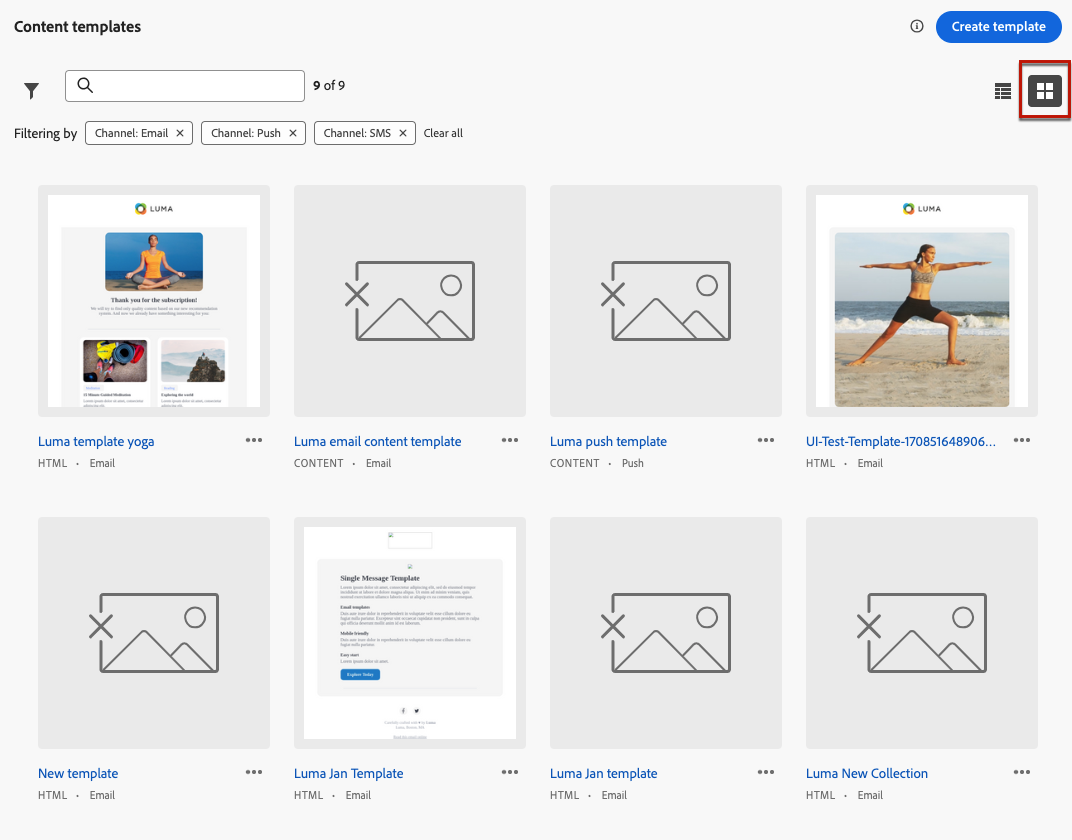
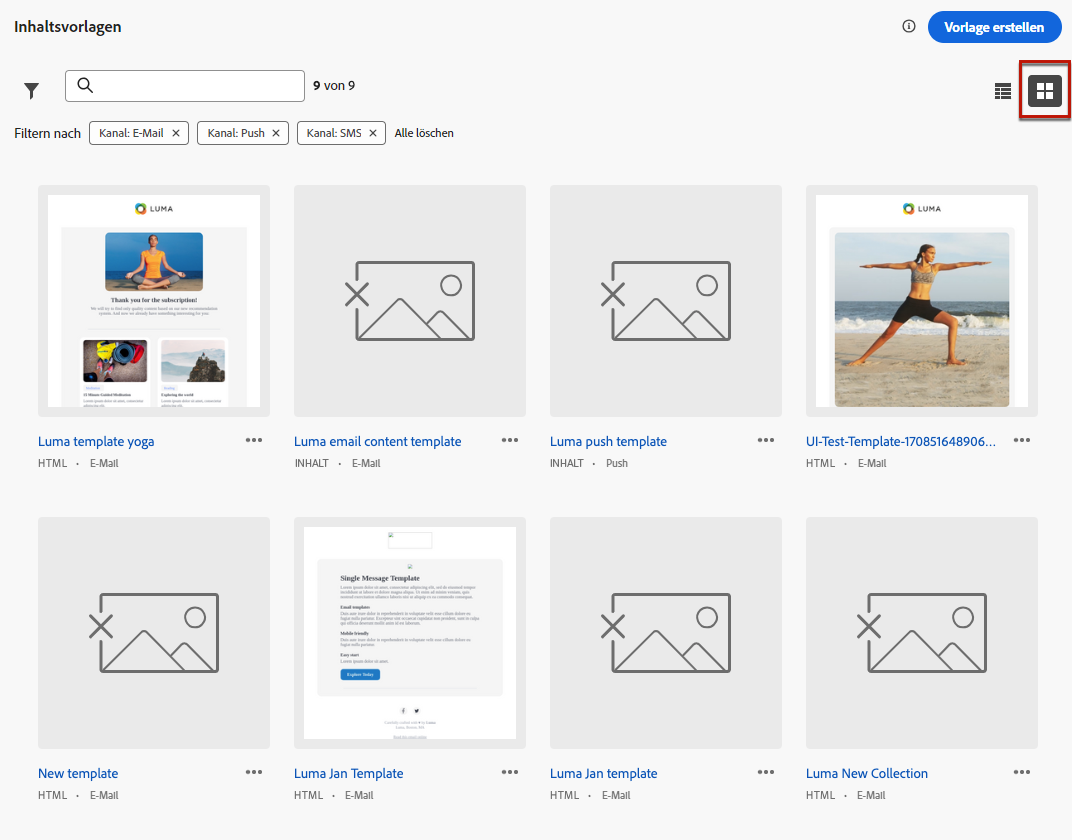
Updated by task 'DOCAC-10126_1710856422931'  Changes for core/source commit https://git.corp.adobe.com/AdobeDocs/journey-optimizer.en/commit/44170e04be45c5b3df6343767dc7e640a61940f8

diff --git a/help/using/configuration/frequency-rules.md b/help/using/configuration/frequency-rules.md
@@ -10,9 +10,9 @@ level: Intermediate
 keywords: Nachricht, Häufigkeit, Regeln, Druck
 exl-id: 49248fb6-5a91-45b2-9de8-2f078d59c0fc
 source-git-commit: 949e7cd05a2b1125e13615814f6501b3906e470c
-workflow-type: tm+mt
+workflow-type: ht
 source-wordcount: '1212'
-ht-degree: 90%
+ht-degree: 100%
 
 ---
 
@@ -75,11 +75,11 @@ Gehen Sie wie folgt vor, um eine neue Regel zu erstellen.
 
    >[!NOTE]
    >
-   >Nur die **[!UICONTROL Marketing]** -Kategorie verfügbar ist.
+   >Es ist nur die Kategorie **[!UICONTROL Marketing]** verfügbar.
 
    ![](assets/message-rules-details.png)
 
-1. Aus dem **[!UICONTROL Dauer]** Dropdownliste einen Zeitrahmen für die Anwendung der Begrenzung auswählen. [Weitere Informationen](#frequency-cap)
+1. Wählen Sie aus der Dropdown-Liste **[!UICONTROL Dauer]** einen Zeitrahmen aus, auf den die Begrenzung angewendet werden soll. [Weitere Informationen](#frequency-cap)
 
 1. Legen Sie die Begrenzung für Ihre Regel fest, d. h. die maximale Anzahl der Nachrichten, die pro Monat oder Woche <!--or day--> an ein einzelnes Benutzerprofil gesendet werden können – je nach Ihrer Auswahl oben.
 
@@ -101,13 +101,13 @@ Gehen Sie wie folgt vor, um eine neue Regel zu erstellen.
 
    ![](assets/message-rules-created.png)
 
-### Frequenzlimitierung {#frequency-cap}
+### Frequenzbegrenzung {#frequency-cap}
 
-Aus dem **[!UICONTROL Dauer]** Dropdownliste auswählen, ob die Begrenzung monatlich oder wöchentlich angewendet werden soll.
+Legen Sie über die Dropdown-Liste **[!UICONTROL Dauer]** fest, ob die Begrenzung monatlich oder wöchentlich angewendet werden soll.
 
 >[!NOTE]
 >
->Tägliche Frequenzlimitierung ist auch bei Bedarf verfügbar. [Weitere Informationen](#daily-frequency-cap)
+>Auf Anfrage ist auch eine tägliche Frequenzbegrenzung möglich. [Weitere Informationen](#daily-frequency-cap)
 
 Die Häufigkeitsbegrenzung basiert auf dem ausgewählten Kalenderzeitraum. Sie wird am Anfang des entsprechenden Zeitrahmens zurückgesetzt.
 
@@ -119,15 +119,15 @@ Der Zähler läuft für jeden Zeitraum wie folgt ab:
 
 * **[!UICONTROL Wöchentlich]**: Die Häufigkeitsbegrenzung gilt bis Samstag 23:59:59 UTC der betreffenden Woche, da die Kalenderwoche am Sonntag beginnt. Das Ablaufdatum ist unabhängig von der Regelerstellung. Wenn die Regel beispielsweise am Donnerstag erstellt wird, gilt diese Regel bis Samstag um 23 Uhr:59:59.
 
-### Tägliche Häufigkeitsbegrenzung {#daily-frequency-cap}
+### Tägliche Frequenzbegrenzung {#daily-frequency-cap}
 
-Neben der monatlichen und wöchentlichen Frequenzlimitierung ist auch eine tägliche Frequenzlimitierung auf Anfrage erhältlich. Wenden Sie sich diesbezüglich an Ihren Adobe-Support-Mitarbeiter.
+Neben der monatlichen und wöchentlichen Frequenzbegrenzung ist auf Anfrage auch eine tägliche Frequenzbegrenzung verfügbar. Weiterführende Informationen dazu erhalten Sie beim Adobe-Support.
 
-Die tägliche Frequenzbegrenzung gilt für den Tag bis 23:59:59 UTC und wird zu Beginn des nächsten Tages auf 0 zurückgesetzt.
+Die tägliche Frequenzbegrenzung ist für den Tag bis 23:59:59 Uhr (UTC) gültig und wird zu Beginn des nächsten Tages auf 0 zurückgesetzt.
 
 >[!NOTE]
 >
->Wenn Sie [Stapelsegmentierung](https://experienceleague.adobe.com/docs/experience-platform/segmentation/home.html?lang=de#batch){target="_blank"}, the daily counters may not accurately reflect the current values as the daily counter snapshot is taken at midnight UTC the night before. Consequently, relying on daily counters in this scenario becomes impractical, as the snapshot does not reflect the most up-to-date counter values on the profile. To ensure accuracy for daily frequency capping rules, the use of [streaming segmentation](https://experienceleague.adobe.com/docs/experience-platform/segmentation/ui/streaming-segmentation.html?lang=de){target="_blank"} wird empfohlen. Erfahren Sie mehr über die Methoden zur Zielgruppenbewertung in [diesem Abschnitt](../audience/about-audiences.md#evaluation-method-in-journey-optimizer).
+>Beim Umgang mit der [Batch-Segmentierung](https://experienceleague.adobe.com/docs/experience-platform/segmentation/home.html?lang=de#batch){target="_blank"}, the daily counters may not accurately reflect the current values as the daily counter snapshot is taken at midnight UTC the night before. Consequently, relying on daily counters in this scenario becomes impractical, as the snapshot does not reflect the most up-to-date counter values on the profile. To ensure accuracy for daily frequency capping rules, the use of [streaming segmentation](https://experienceleague.adobe.com/docs/experience-platform/segmentation/ui/streaming-segmentation.html?lang=de){target="_blank"} wird empfohlen. Weitere Informationen über Methoden zur Zielgruppenauswertung finden Sie in [diesem Abschnitt](../audience/about-audiences.md#evaluation-method-in-journey-optimizer).
 
 ## Aktivieren einer Regel {#activate-rule}
 

diff --git a/help/using/building-journeys/expression/data-types.md b/help/using/building-journeys/expression/data-types.md
@@ -9,9 +9,9 @@ level: Experienced
 keywords: Ausdruck, Daten, Datentyp, Journey
 exl-id: fdfc3287-d733-45fb-ad11-b4238398820a
 source-git-commit: 4e7c4e7e6fcf488f572ccf3e9037e597dde06510
-workflow-type: tm+mt
+workflow-type: ht
 source-wordcount: '620'
-ht-degree: 95%
+ht-degree: 100%
 
 ---
 
@@ -165,7 +165,7 @@ Kann in einer toDateTimeOnly-Funktion gekapselt sein.
 
 Serialisierungsformat: ISO-8601, erweitertes Versatz-Datums-/Uhrzeitformat.
 
-Es wird das DateTimeFormatter ISO_LOCAL_DATE_TIME zur Deserialisierung und Serialisierung des Wertes verwendet. [Weitere Infos](https://docs.oracle.com/javase/8/docs/api/java/time/format/DateTimeFormatter.html#ISO_LOCAL_DATE_TIME&quot;){_blank}.
+Es wird das DateTimeFormatter ISO_LOCAL_DATE_TIME zur Deserialisierung und Serialisierung des Wertes verwendet. [Weitere Informationen](https://docs.oracle.com/javase/8/docs/api/java/time/format/DateTimeFormatter.html#ISO_LOCAL_DATE_TIME&quot;){_blank}.
 
 **Wörtliche Darstellung**
 
@@ -186,7 +186,7 @@ date("2024-02-19T00.00")
 
 Datums-/Zeitkonstante, die auch die Zeitzone berücksichtigt. Es wird Datum + Uhrzeit mit einem Versatz relativ zur UTC dargestellt.
 
-Mit den zusätzlichen Informationen zum Versatz kann ein bestimmter Zeitpunkt dargestellt werden. Es ist eine Möglichkeit, einen bestimmten &quot;Moment&quot;an einem bestimmten Ort der Welt darzustellen.
+Mit den zusätzlichen Informationen zum Versatz kann ein bestimmter Zeitpunkt dargestellt werden. Sie bieten die Möglichkeit, einen bestimmten Zeitpunkt an einem bestimmten Ort der Welt darzustellen.
 
 JSON-Format: Zeichenfolge.
 
@@ -194,9 +194,9 @@ Kann in einer toDateTime-Funktion gekapselt sein.
 
 Serialisierungsformat: ISO-8601, erweitertes Versatz-Datums-/Uhrzeitformat.
 
-Verwendet das DateTimeFormatter ISO_OFFSET_DATE_TIME zur Deserialisierung und Serialisierung des Wertes. [Weitere Infos](https://docs.oracle.com/javase/8/docs/api/java/time/format/DateTimeFormatter.html#ISO_OFFSET_DATE_TIME){_blank}.
+Verwendet das DateTimeFormatter ISO_OFFSET_DATE_TIME zur Deserialisierung und Serialisierung des Wertes. [Weitere Informationen](https://docs.oracle.com/javase/8/docs/api/java/time/format/DateTimeFormatter.html#ISO_OFFSET_DATE_TIME){_blank}.
 
-Sie können auch eine Ganzzahl übergeben, die einen Epochenwert übergibt. [Mehr dazu](https://www.epochconverter.com){_blank}.
+Sie können auch eine Ganzzahl übergeben, die einen Epochenwert übergibt. [Weitere Informationen](https://www.epochconverter.com){_blank}.
 
 Die Zeitzone kann durch einen Versatz oder einen Zeitzonen-Code angegeben werden (Beispiel: Europa/Paris, Z – bedeutet UTC).
 
@@ -258,7 +258,7 @@ Muss in einer toDuration-Funktion gekapselt sein.
 
 Serialisierungsformat: Zur Deserialisierung einer Zeitzonen-ID wird die Java-Funktion java.time verwendet.
 
-Duration.parse: Die akzeptierten Formate basieren auf dem ISO-8601-Dauerformat „PnDTnHnMn.nS“, wobei Tage als genau 24 Stunden angesehen werden. [Weitere Infos](https://docs.oracle.com/javase/8/docs/api/java/time/Duration.html#parse-java.lang.CharSequence-){_blank}.
+Duration.parse: Die akzeptierten Formate basieren auf dem ISO-8601-Dauerformat „PnDTnHnMn.nS“, wobei Tage als genau 24 Stunden angesehen werden. [Weitere Informationen](https://docs.oracle.com/javase/8/docs/api/java/time/Duration.html#parse-java.lang.CharSequence-){_blank}.
 
 **Wörtliche Darstellung**
 

diff --git a/help/using/building-journeys/wait-activity.md b/help/using/building-journeys/wait-activity.md
@@ -10,9 +10,9 @@ level: Intermediate
 keywords: Warten, Aktivität, Journey, weiter, Arbeitsfläche
 exl-id: 7268489a-38c1-44da-b043-f57aaa12d7d5
 source-git-commit: 4e7c4e7e6fcf488f572ccf3e9037e597dde06510
-workflow-type: tm+mt
+workflow-type: ht
 source-wordcount: '489'
-ht-degree: 83%
+ht-degree: 100%
 
 ---
 
@@ -60,13 +60,13 @@ Select the date for the execution of the next activity.
 
 ## Benutzerdefinierte Wartezeit{#custom}
 
-Mit dieser Option können Sie ein benutzerdefiniertes Datum definieren, z. B. den 12. Juli 2023 um 17 Uhr, indem Sie einen erweiterten Ausdruck verwenden, der auf einem Feld basiert, das von einem Ereignis oder einer Datenquelle stammt. Sie können keine benutzerdefinierte Dauer (z. B. 7 Tage) festlegen. Der Ausdruck im Ausdruckseditor sollte ein „dateTimeOnly“-Format aufweisen. Mehr dazu erfahren Sie auf [dieser Seite](expression/expressionadvanced.md). Weitere Informationen zum „dateTimeOnly“-Format finden Sie auf [dieser Seite](expression/data-types.md).
+Mit dieser Option können Sie eine benutzerdefinierte Datums- und Zeitangabe definieren, z. B. den 12. Juli 2023 um 17 Uhr. Dabei verwenden Sie einen erweiterten Ausdruck, der auf einem von einem Ereignis oder einer Datenquelle stammenden Feld basiert. Sie können keine benutzerdefinierte Dauer (z. B. 7 Tage) festlegen. Der Ausdruck im Ausdruckseditor sollte ein „dateTimeOnly“-Format aufweisen. Mehr dazu erfahren Sie auf [dieser Seite](expression/expressionadvanced.md). Weitere Informationen zum „dateTimeOnly“-Format finden Sie auf [dieser Seite](expression/data-types.md).
 
 >[!NOTE]
 >
->Sie können einen „dateTimeOnly“-Ausdruck nutzen oder eine Funktion zur Konvertierung in ein „dateTimeOnly“-Format verwenden. Beispiel: toDateTimeOnly(@event{Event.offerOpened.activity.endTime}), das Feld im Ereignis weist die Form 2023-08-12T09 auf:46:06Z.
+>Sie können einen „dateTimeOnly“-Ausdruck nutzen oder eine Funktion zur Konvertierung in ein „dateTimeOnly“-Format verwenden. Beispiel: toDateTimeOnly(@event{Event.offerOpened.activity.endTime}). Das Feld im Ereignis hat folgende Form: 2023-08-12T09:46:06Z.
 >
->Die Angabe der **Zeitzone** ist für die Eigenschaften Ihrer Journey erforderlich. Aus diesem Grund ist es heute nicht möglich, von der Oberfläche direkt auf eine vollständige ISO-8601-Zeitstempelmischzeit und einen Zeitzonenversatz wie 2023-08-12T09 zu verweisen:46:06.982-05. Weitere Informationen finden Sie auf [dieser Seite](../building-journeys/timezone-management.md).
+>Die Angabe der **Zeitzone** ist für die Eigenschaften Ihrer Journey erforderlich. Aus diesem Grund ist es heute nicht möglich, von der Oberfläche direkt auf eine Zeitstempelmischzeit nach ISO-8601 und einen Zeitzonenversatz wie 2023-08-12T09:46:06.982-05 zu verweisen. Weitere Informationen finden Sie auf [dieser Seite](../building-journeys/timezone-management.md).
 
 ![](assets/journey57.png)
 

diff --git a/help/using/content-management/content-templates.md b/help/using/content-management/content-templates.md
@@ -9,9 +9,9 @@ role: User
 level: Beginner
 exl-id: 327de13a-1c99-4d5e-86cf-8180fb7aaf23
 source-git-commit: 3f844f65609f271e834ebf42749253fd64446a9a
-workflow-type: tm+mt
+workflow-type: ht
 source-wordcount: '1425'
-ht-degree: 96%
+ht-degree: 100%
 
 ---
 
@@ -67,9 +67,9 @@ Sie können auch festlegen, dass nur die von Ihnen erstellten oder geänderten E
 >
 >Wenn eine Vorlage bearbeitet oder gelöscht wird, sind Kampagnen oder Journeys, einschließlich mit dieser Vorlage erstellter Inhalte, nicht betroffen.
 
-### Vorlagen als Miniaturansichten anzeigen {#template-thumbnails}
+### Anzeigen von Vorlagen als Miniaturansichten {#template-thumbnails}
 
-Wählen Sie die **[!UICONTROL Rasteransicht]** -Modus, um jede Vorlage als Miniaturansicht anzuzeigen.
+Wählen Sie den Modus **[!UICONTROL Rasteransicht]** aus, um die einzelnen Vorlagen als Miniaturansicht anzuzeigen.
 
 >[!AVAILABILITY]
 >
@@ -79,9 +79,9 @@ Wählen Sie die **[!UICONTROL Rasteransicht]** -Modus, um jede Vorlage als Minia
 
 >[!NOTE]
 >
->Derzeit können geeignete Miniaturansichten nur für E-Mail-Inhaltsvorlagen vom Typ HTML erstellt werden.
+>Derzeit können geeignete Miniaturansichten nur für HTML-Inhaltsvorlagen von E-Mails erstellt werden.
 
-Wenn Sie einen Inhalt aktualisieren, müssen Sie möglicherweise einige Sekunden warten, bis die Änderungen in der Miniaturansicht angezeigt werden.
+Wenn Sie Inhalte aktualisieren, müssen Sie möglicherweise einige Sekunden warten, bis die Änderungen in der Miniaturansicht angezeigt werden.
 
 ## Erstellen von Inhaltsvorlagen {#create-content-templates}
 

diff --git a/help/using/building-journeys/expression/operators.md b/help/using/building-journeys/expression/operators.md
@@ -9,9 +9,9 @@ level: Experienced
 keywords: Ausdruck, Syntax, Operatoren, Editor, Journey
 exl-id: 706e2e02-9bd9-46e7-a73d-dda3c9ae4ba8
 source-git-commit: 4e7c4e7e6fcf488f572ccf3e9037e597dde06510
-workflow-type: tm+mt
+workflow-type: ht
 source-wordcount: '531'
-ht-degree: 93%
+ht-degree: 100%
 
 ---
 
@@ -434,13 +434,13 @@ Beispiel:
 "the current time is " + (now())
 ```
 
-Gibt &quot;die aktuelle Zeit ist 2023-09-23T09&quot;zurück:30:06.693 Z&quot;
+Gibt „Die aktuelle Zeit lautet 2023-09-23T09:30:06.693Z“ zurück.
 
 ```json
 (now()) + " is the current time"
 ```
 
-Gibt &quot;2023-09-23T09&quot;zurück:30:06.693Z ist die aktuelle Zeit&quot;
+Gibt „2023-09-23T09:30:06.693Z ist die aktuelle Zeit“ zurück.
 
 ```json
 "a" + "b" + "c" + 1234
@@ -464,13 +464,13 @@ Beispiel:
 (toDateTime("2023-12-03T15:15:30Z")) + (toDuration("PT15M"))  
 ```
 
-Gibt eine _dateTime_ 2023-12-03T15:30:30Z
+Gibt den _dateTime_-Wert 2023-12-03T15:30:30Z zurück.
 
 ```json
 (toDateTimeOnly("2023-12-03T15:15:30")) + (toDuration("PT15M"))
 ```
 
-Gibt eine _dateTimeOnly_ 2023-12-03T15:30:30
+Gibt den _dateTimeOnly_-Wert 2023-12-03T15:30:30 zurück.
 
 ```json
 (now()) + (toDuration("PT1H"))

diff --git a/help/using/sms/sms-opt-out.md b/help/using/sms/sms-opt-out.md
@@ -9,9 +9,9 @@ role: User
 level: Intermediate
 exl-id: 59ea67d9-e90c-4ad0-afb9-d0e0fd868855
 source-git-commit: d7b784f10e267878fd0df9360ed0d1be24699a53
-workflow-type: tm+mt
+workflow-type: ht
 source-wordcount: '484'
-ht-degree: 97%
+ht-degree: 100%
 
 ---
 
@@ -38,7 +38,7 @@ Standardmäßig verarbeitet Adobe Journey Optimizer folgende standardmäßige en
 
 Mit diesen Keywords wird in der Regel eine automatische Standardantwort von Ihrem Drittanbieter ausgelöst. Sie können dies direkt mit Ihrem Provider oder über dessen Dokumentations-Website abklären.
 
-Stellen Sie bei Verwendung von Infobip sicher, dass für die Weiterleitungsaktion die Konfiguration Pull ausgewählt ist.
+Stellen Sie bei Verwendung von Infobip sicher, dass für die Weiterleitungsaktion die Pull-Konfiguration ausgewählt ist.
 
 Es sind keine Schritte erforderlich, um sicherzustellen, dass die SMS-Opt-out-Funktionen in Adobe Journey Optimizer funktionieren, da die Keyword-Antworten STOP, UNSTOP, START, QUIT, CANCEL, END und UNSUBSCRIBE automatisch erkannt werden. Der Opt-out-Status von Profilen wird in Echtzeit in Adobe Journey Optimizer aktualisiert.
 

diff --git a/help/using/building-journeys/functions/functiontodatetime.md b/help/using/building-journeys/functions/functiontodatetime.md
@@ -8,9 +8,9 @@ level: Experienced
 keywords: toDateTime, Funktion, Ausdruck, Journey
 exl-id: 2b487e60-593e-4bf7-9639-f469ba0f5cdc
 source-git-commit: 4e7c4e7e6fcf488f572ccf3e9037e597dde06510
-workflow-type: tm+mt
+workflow-type: ht
 source-wordcount: '104'
-ht-degree: 85%
+ht-degree: 100%
 
 ---
 
@@ -74,15 +74,15 @@ Return a datetime.
 
 `toDateTime ("2023-08-18T23:17:59.123Z")`
 
-Gibt 2023-08-18T23 zurück:17:59.123 Z
+Gibt 2023-08-18T23:17:59.123Z zurück.
 
 `toDateTime(toDateTimeOnly("UTC", "2023-08-18T23:17:59.123"))`
 
-Gibt 2023-08-18T23 zurück:17:59.123 Z
+Gibt 2023-08-18T23:17:59.123Z zurück.
 
 `toDateTime(1560762190189)`
 
-Gibt 2023-06-17T09 zurück:03:10.189 Z
+Gibt 2023-06-17T09:03:10.189Z zurück.
 
 <!--`toDateTime ("2016-08-18T23:17:59.123", "UTC")`
 

diff --git a/help/using/data/datasets-query-examples.md b/help/using/data/datasets-query-examples.md
@@ -10,9 +10,9 @@ level: Experienced
 keywords: Datensatz, Optimizer, Anwendungsfälle
 exl-id: 26ba8093-8b6d-4ba7-becf-b41c9a06e1e8
 source-git-commit: 4e7c4e7e6fcf488f572ccf3e9037e597dde06510
-workflow-type: tm+mt
+workflow-type: ht
 source-wordcount: '844'
-ht-degree: 99%
+ht-degree: 100%
 
 ---
 
@@ -164,7 +164,7 @@ WHERE
 ORDER BY timestamp DESC;
 ```
 
-wobei das Datumsformat: `YYYY-MM-DD HH:MM:SS`.
+Das Datumsformat lautet dabei: `YYYY-MM-DD HH:MM:SS`.
 
 Sobald Sie diese Adressen identifiziert haben, entfernen Sie sie aus der Unterdrückungsliste von Journey Optimizer. [Weitere Informationen](../configuration/manage-suppression-list.md#remove-from-suppression-list).
 

diff --git a/help/using/building-journeys/functions/functionupdatetimezone.md b/help/using/building-journeys/functions/functionupdatetimezone.md
@@ -8,9 +8,9 @@ level: Experienced
 keywords: updateTimeZone, Funktion, Ausdruck, Journey
 exl-id: 1bf4662e-55d0-4631-af93-1430ec7ed7e2
 source-git-commit: 4e7c4e7e6fcf488f572ccf3e9037e597dde06510
-workflow-type: tm+mt
+workflow-type: ht
 source-wordcount: '62'
-ht-degree: 88%
+ht-degree: 100%
 
 ---
 
@@ -41,7 +41,7 @@ Gibt einen Datum/Uhrzeit-Wert zurück.
 
 `updateTimeZone( toDateTime("2023-08-28T08:15:30.123-07:00"), "Europe/Paris"))`
 
-Gibt 2023-08-28T17 zurück:15:30 123 02 00.
+Gibt 2023-08-28T17:15:30.123+02:00 zurück.
 
 <!--`updateTimeZone( toDateTime("2019-08-28T08:15:30.123-07:00"), toTimeZone("Europe/Paris")))`
 Returns "2019-08-28T17:15:30.123+02:00".-->

diff --git a/help/using/building-journeys/functions/functiontodateonly.md b/help/using/building-journeys/functions/functiontodateonly.md
@@ -8,9 +8,9 @@ level: Experienced
 keywords: toDateOnly, Funktion, Ausdruck, Journey
 exl-id: 1929644f-8b51-4f95-aea5-627fc1dd115d
 source-git-commit: 4e7c4e7e6fcf488f572ccf3e9037e597dde06510
-workflow-type: tm+mt
+workflow-type: ht
 source-wordcount: '100'
-ht-degree: 96%
+ht-degree: 100%
 
 ---
 
@@ -55,7 +55,7 @@ Gibt einen Wert vom Typ dateOnly zurück.
 
 `toDateOnly("2023-08-18T00:00:00")`
 
-alle geben ein dateOnly -Objekt zurück, das 18.08.2023 darstellt.
+alle geben ein dateOnly-Objekt zurück, das den 18.08.2023 darstellt.
 
 `toDateOnly(#{ExperiencePlatform.ProfileFieldGroup.person.birthDate})`
 

diff --git a/help/using/building-journeys/functions/functiontodatetimeonly.md b/help/using/building-journeys/functions/functiontodatetimeonly.md
@@ -8,9 +8,9 @@ level: Experienced
 keywords: toDateTimeOnly, Funktion, Ausdruck, Journey
 exl-id: db54c119-5080-403a-b254-43645be6b4a8
 source-git-commit: 4e7c4e7e6fcf488f572ccf3e9037e597dde06510
-workflow-type: tm+mt
+workflow-type: ht
 source-wordcount: '63'
-ht-degree: 87%
+ht-degree: 100%
 
 ---
 
@@ -47,7 +47,7 @@ Gibt einen Datum/Uhrzeit-Wert ohne Berücksichtigung der Zeitzone zurück.
 
 `toDateTimeOnly ("2023-08-18")`
 
-gibt eine dateTime zurück, die 2023-08-18T00 entspricht.:00:00 000
+Gibt einen Datum/Uhrzeit-Wert zurück, der 2023-08-18T00:00:00.000 entspricht.
 
 `toDateTimeOnly(now())`
 

diff --git a/help/using/building-journeys/functions/functionsetdays.md b/help/using/building-journeys/functions/functionsetdays.md
@@ -8,9 +8,9 @@ level: Experienced
 keywords: setDays, Funktion, Ausdruck, Journey
 exl-id: c2757e41-8206-44f7-9dbb-1fa79c0ba6e6
 source-git-commit: 4e7c4e7e6fcf488f572ccf3e9037e597dde06510
-workflow-type: tm+mt
+workflow-type: ht
 source-wordcount: '80'
-ht-degree: 93%
+ht-degree: 100%
 
 ---
 
@@ -48,6 +48,6 @@ Gibt einen Datum/Uhrzeit-Wert ohne Berücksichtigung der Zeitzone zurück.
 
 `setDays(toDateTime('2023-12-12T01:11:00Z'), 25)`
 
-Gibt 2023-12-25T01 zurück:11:00Z.
+Gibt 2023-12-25T01:11:00Z zurück.
 
 `setDays(toDateTimeOnly(@event{MyEvent.registrationDate}), 1)`
